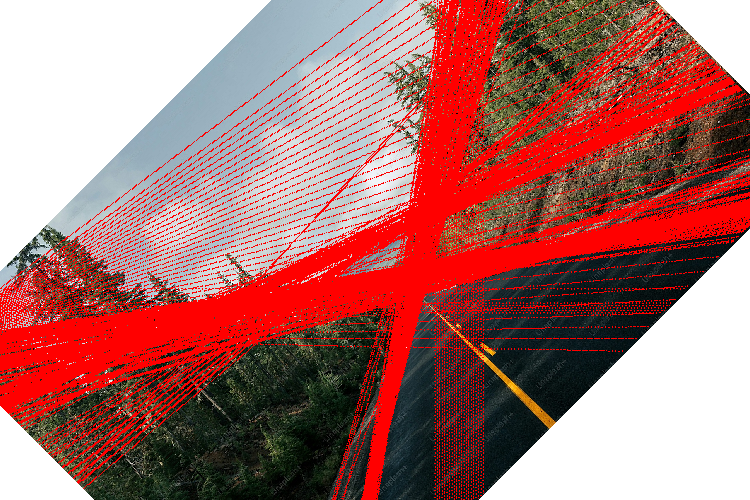
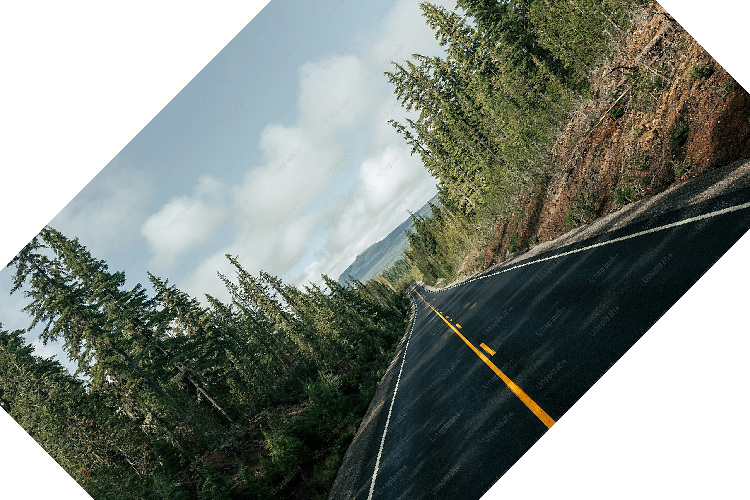
enfin ptn ca marche pour 6 sur 8 et coco faut changer 2 3 pretraitrement auto

Changed region(s): [[0.0, 0.0, 1.0, 1.0], [0.8893, 0.57, 0.92, 0.6], [0.4907, 0.06, 0.5213, 0.09]]

diff --git a/Detection/LetterDetection.c b/Detection/LetterDetection.c
@@ -7,9 +7,8 @@
 #include "../Functions.h"
 
 
-
-static int pixelToleranceX,
-           pixelToleranceY;
+static int pixelToleranceX = 15,
+           pixelToleranceY = 15;
 
 
 int isWhiteLine(SDL_Surface* surface, int x1, int y1, int x2, int y2) {
@@ -55,21 +54,55 @@ int isWhiteLine(SDL_Surface* surface, int x1, int y1, int x2, int y2) {
 }
 
 
-int getNumLines(SDL_Surface* surface, int x1, int x2, int y1, int y2) {
+int getNumLines(SDL_Surface* surface, int x1, int x2, int* y1, int* y2) {
 
     int numLines = 0,
-        nextLine = 1;
+        nextLine = 1,
+        currentSize = 0,
+        averageSize = 0;
 
-    for (int y = y1; y < y2; y++) {
+    for (int y = *y1; y < *y2; y++) {
+
         if (isWhiteLine(surface, x1 + pixelToleranceX, y, x2 - pixelToleranceX, y)) {
             if (nextLine) {
                 nextLine = 0;
                 numLines++;
+                averageSize += currentSize;
+                currentSize = 0;
             }
         }
         else if (!nextLine) {
             nextLine = 1;
         }
+        currentSize++;
+    }
+
+    if (numLines < 5)
+        return numLines;
+    if (numLines > 0)
+        averageSize /= numLines;
+
+    nextLine = 0;
+    currentSize = 0;
+
+    for (int y = *y1; y < *y2; y++) {
+        
+        if (isWhiteLine(surface, x1 + pixelToleranceX, y, x2 - pixelToleranceX, y)) {
+
+            if (!nextLine) {
+                currentSize++;
+                continue;
+            }
+
+            if ((double)currentSize > (double)averageSize * 1.45) {
+                *y1 = y;
+                return getNumLines(surface, x1, x2, y1, y2);
+            }
+            currentSize = 0;
+        }
+        
+        nextLine = 1;
+        currentSize++;
     }
 
     return numLines;
@@ -96,26 +129,50 @@ int getNumColumns(SDL_Surface* surface, int x1, int x2, int y1, int y2) {
 }
 
 
-void removeLines(SDL_Surface* surface) {
+void removeLines(SDL_Surface* surface, int x1, int x2, int y1, int y2) {
+    
     int size = 0,
         threshold = 0;
-}
+    int** accumulatorArray = detectLines(surface, &size, &threshold);
 
+    threshold -= threshold / 4;
+
+    for (int theta = 0; theta < 180; theta++) {
+
+        for (int rho = 0; rho < size * 2; rho++) {
+            if (accumulatorArray[rho][theta] > threshold) {
+
+                int* coords = polarToCartesian((double)(rho - size), (double)theta, x2 - x1, y2 - y1);
+
+                if (coords[0] == coords[2]) {
+                    coords[1] += y1;
+                    coords[3] += y1;
+                    drawWhiteRect(surface, coords[0] - 5, coords[1], 10, coords[3] - coords[1]);
+                    //drawLineOnSurface(surface, coords[0], coords[1], coords[2], coords[3]);
+                }
+                else if (coords[1] == coords[3]) {
+                    coords[0] += x1;
+                    coords[2] += x1;
+                    drawWhiteRect(surface, coords[0], coords[1] - 5, coords[2] - coords[0], 10);                    
+                    //drawLineOnSurface(surface, coords[0], coords[1], coords[2], coords[3]);
+                }
+            }
+        }
+    }    
+}
 
 
 
 void detectLetters(SDL_Surface* surface, int x1, int x2, int y1, int y2) {
 
-    pixelToleranceX = (x2 - x1) / 5;
-    pixelToleranceY = (y2 - y1) / 5;
-
     //Nombre de lignes et de colonnes de lettres
-    int lines = getNumLines(surface, x1, x2, y1, y2) - 1,
+    int lines = getNumLines(surface, x1, x2, &y1, &y2) - 1,
         columns = getNumColumns(surface, x1, x2, y1, y2) - 1;
 
-    //retirer le cadrillage
     if (lines + columns < 10) {
-        
+        removeLines(surface, x1, x2, y1, y2);
+        lines = getNumLines(surface, x1, x2, &y1, &y2) - 1;
+        columns = getNumColumns(surface, x1, x2, y1, y2) - 1;
     }
 
     //Liste 3 dimensionnelle dont la 3eme represente les corners topleft et bottomright de la lettre : x1, y1 | x2, y2
@@ -135,7 +192,7 @@ void detectLetters(SDL_Surface* surface, int x1, int x2, int y1, int y2) {
 
     for (int y = y1; y < y2; y++) {
 
-        if (!isWhiteLine(surface, x1 + pixelToleranceX, y, x2 - pixelToleranceY, y)) {
+        if (!isWhiteLine(surface, x1 + pixelToleranceX, y, x2 - pixelToleranceX, y)) {
             if (!nextLine) {
                 nextLine = 1;
             }
@@ -166,7 +223,7 @@ void detectLetters(SDL_Surface* surface, int x1, int x2, int y1, int y2) {
 
     for (int x = x1; x < x2; x++) {
 
-        if (!isWhiteLine(surface, x, y1 + pixelToleranceX, x, y2 - pixelToleranceY)) {
+        if (!isWhiteLine(surface, x, y1 + pixelToleranceY, x, y2 - pixelToleranceY)) {
             if (!nextColumn) {
                 nextColumn = 1;
             }

diff --git a/Detection/DrawShapes.c b/Detection/DrawShapes.c
@@ -4,17 +4,18 @@
 #include "Detection.h"
 
 
-void drawSquare(SDL_Surface* surface, int posX, int posY, int sqW, int sqH) {
+void drawWhiteRect(SDL_Surface* surface, int posX, int posY, int rectW, int rectH) {
     
-    SDL_Rect rect = {posX, posY, sqW, sqH};
-    Uint32 color = SDL_MapRGB(surface->format, 50, 50, 50);
+    SDL_Rect rect = {posX, posY, rectW, rectH};
+    Uint32 color = SDL_MapRGB(surface->format, 255, 255, 255);
     SDL_FillRect(surface, &rect, color);
 }
 
 
-void drawPolarLine(SDL_Surface* surface, double rho, double theta, int h, int w) {
+int* polarToCartesian(double rho, double theta, int w, int h) {
 
-    double x1, y1, x2, y2;
+    int x1, y1, x2, y2;
+    int* coords = malloc(4 * sizeof(int));
 
     if (theta == 90) {
         x1 = 0;
@@ -59,7 +60,20 @@ void drawPolarLine(SDL_Surface* surface, double rho, double theta, int h, int w)
         }
     }
 
-    drawLineOnSurface(surface, x1, y1, x2, y2);
+    coords[0] = x1;
+    coords[1] = y1;
+    coords[2] = x2;
+    coords[3] = y2;
+
+    return coords;
+}
+
+
+void drawPolarLine(SDL_Surface* surface, double rho, double theta, int w, int h) {
+
+    int* coords = polarToCartesian(rho, theta, w, h);
+
+    drawLineOnSurface(surface, coords[0], coords[1], coords[2], coords[3]);
 }
 
 void drawLineOnSurface(SDL_Surface *surface, int x1, int y1, int x2, int y2) {

diff --git a/Detection/GridDetection.c b/Detection/GridDetection.c
@@ -128,10 +128,14 @@ void searchCorners() {
     pixelLimits(&x2, &y2);
 
     resizeSides(&x1, &x2, &y1, &y2);
-    x1 -= 2;
-    x2 += 2;
-    y1 -= 2;
-    y2 += 2;
+    x1 -= 10;
+    x2 += 10;
+    y1 -= 10;
+    y2 += 10;
+
+    pixelLimits(&x1, &y1);
+    pixelLimits(&x2, &y2);
+
 
     detectLetters(surface, x1, x2, y1, y2);
 
@@ -143,8 +147,6 @@ void searchCorners() {
 
 
 int* searchTopRight(int x, int y, int pixels) {
-
-    //drawSquare(surface, x, y, sqW, sqH);
 
     if (pixels > 0) {
 
@@ -171,8 +173,6 @@ int* searchTopRight(int x, int y, int pixels) {
 
 
 int* searchTopLeft(int x, int y, int pixels) {
-    
-    //drawSquare(surface, x, y, sqW, sqH);
 
     if (pixels > 0) {
 
@@ -199,8 +199,6 @@ int* searchTopLeft(int x, int y, int pixels) {
 
 
 int* searchBottomRight(int x, int y, int pixels) {
-
-    //drawSquare(surface, x, y, sqW, sqH);
     
     if (pixels > 0) {
 
@@ -227,8 +225,6 @@ int* searchBottomRight(int x, int y, int pixels) {
 
 
 int* searchBottomLeft(int x, int y, int pixels) {
-    
-    //drawSquare(surface, x, y, sqW, sqH);
 
     if (pixels > 0) {
 

diff --git a/Detection/Detection.h b/Detection/Detection.h
@@ -17,12 +17,13 @@ int* searchBottomRight(int x, int y, int pixels);
 int* searchBottomLeft(int x, int y, int pixels);
 
 int isWhiteLine(SDL_Surface* surface, int x1, int y1, int x2, int y2);
-int getNumLines(SDL_Surface* surface, int x1, int x2, int y1, int y2);
+int getNumLines(SDL_Surface* surface, int x1, int x2, int* y1, int* y2);
 int getNumColumns(SDL_Surface* surface, int x1, int x2, int y1, int y2);
 void detectLetters(SDL_Surface* surface, int x1, int x2, int y1, int y2);
 
-void drawSquare(SDL_Surface* surface, int posX, int posY, int sqW, int sqH);
-void drawPolarLine(SDL_Surface* surface, double rho, double theta, int h, int w);
+int* polarToCartesian(double rho, double theta, int w, int h);
+void drawWhiteRect(SDL_Surface* surface, int posX, int posY, int rectW, int rectH);
+void drawPolarLine(SDL_Surface* surface, double rho, double theta, int w, int h);
 void drawLineOnSurface(SDL_Surface *surface, int x1, int y1, int x2, int y2);
 void putPixel(SDL_Surface *surface, int x, int y);
 

diff --git a/Rotate/autoRotate.c b/Rotate/autoRotate.c
@@ -27,7 +27,6 @@ void autoRotate(char* filepath) {
 
 
     threshold /= 2;
-
     int maxTheta = 0, angle = 0;
 
     for (int theta = 0; theta < 180; theta++) {
